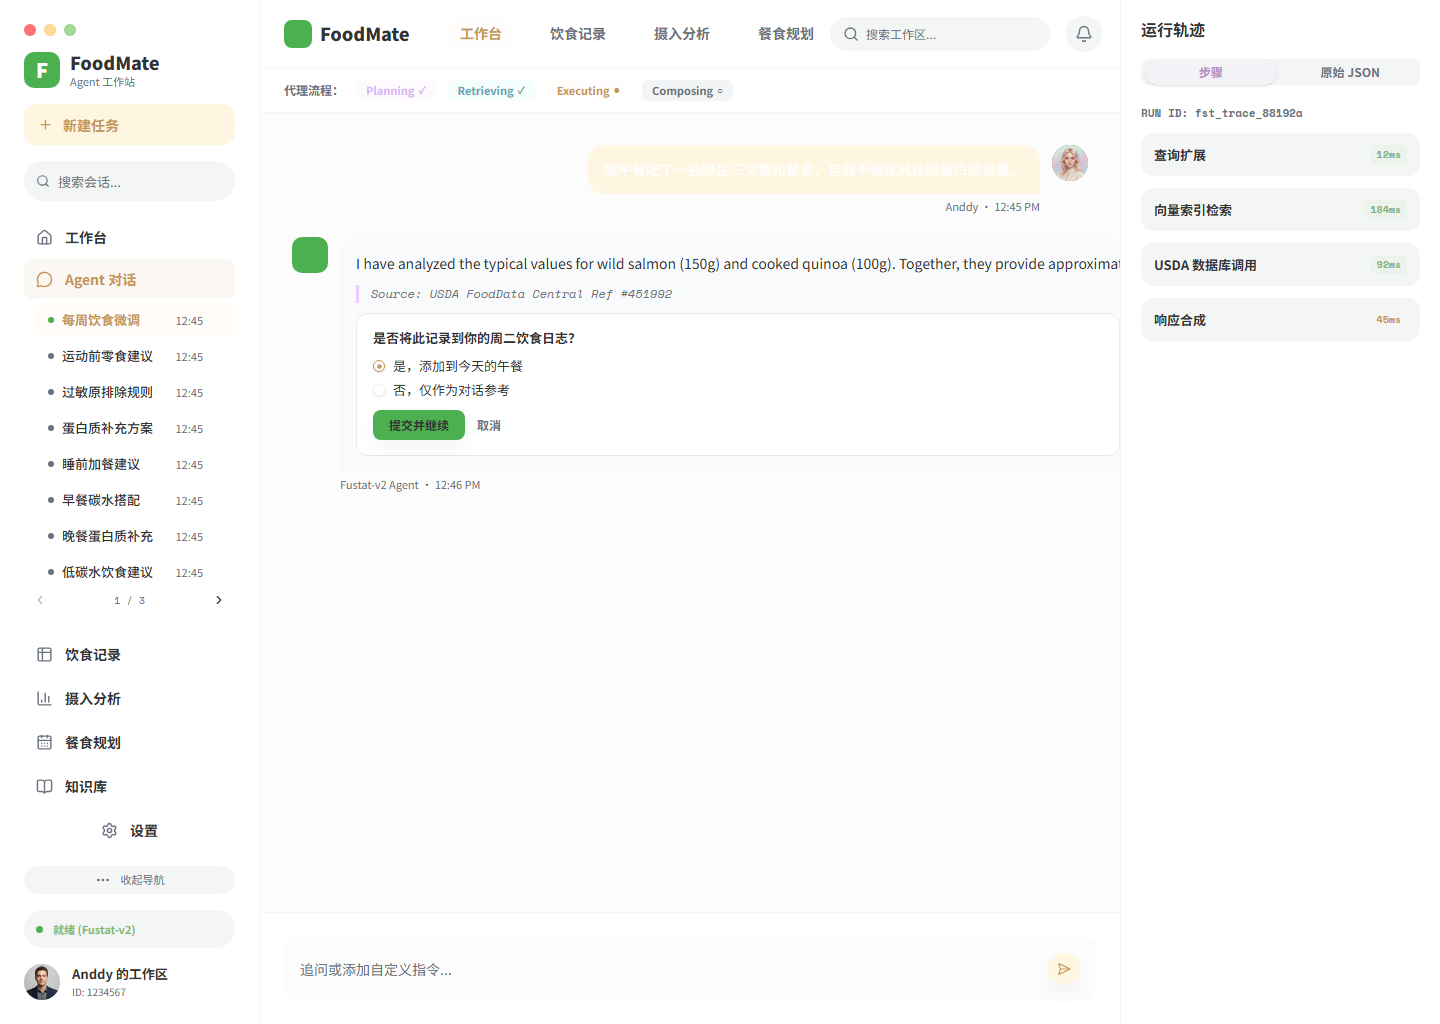
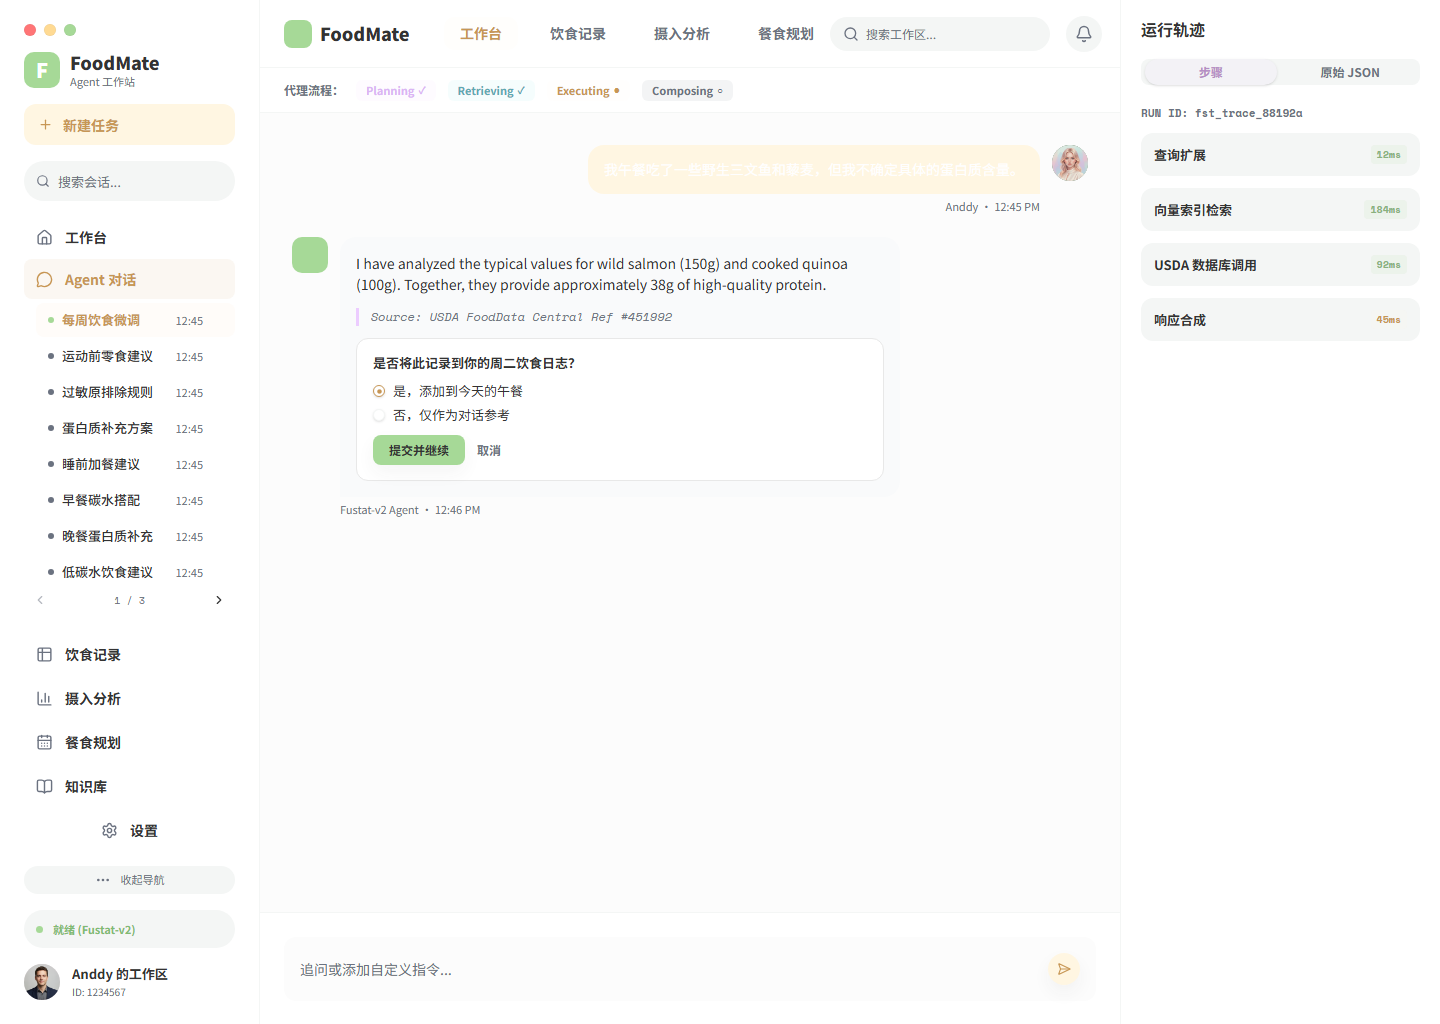
feat(ui): 收口工作台与 Agent Chat 视觉重构

diff --git a/foodmate-ui/src/pages/ChatPage/ChatPage.test.tsx b/foodmate-ui/src/pages/ChatPage/ChatPage.test.tsx
@@ -132,24 +132,19 @@ describe('ChatPage Figma 默认状态', () => {
     expect(screen.getByText('ID: 1234567')).toBeInTheDocument();
   });
 
-  it('uses the full-width assistant surface for the Figma default response', () => {
-    render(
-      <MemoryRouter initialEntries={['/chat?state=figma-v2']}>
-        <Routes>
-          <Route path="/chat/:session_id?" element={<ChatPage />} />
-        </Routes>
-      </MemoryRouter>,
-    );
+  it('uses the Figma 560px assistant content width for the default response', () => {
+    const stylesheet = readFileSync(resolve(process.cwd(), 'src/pages/ChatPage/ChatPage.module.css'), 'utf8');
 
-    const assistantBody = document.querySelector(`[class*="${styles.assistantBody}"]`);
-    expect(assistantBody).toHaveClass(styles.assistantBodyWide);
+    expect(stylesheet).toContain('.figmaDefaultPage .assistantBody {');
+    expect(stylesheet).toContain('width: 560px;');
+    expect(stylesheet).toContain('flex: 0 0 560px;');
   });
 
   it('uses the Figma neutral surface for the assistant message body', () => {
     const stylesheet = readFileSync(resolve(process.cwd(), 'src/pages/ChatPage/ChatPage.module.css'), 'utf8');
 
     expect(stylesheet).toContain('.designChatPage .assistant .messageBubble');
-    expect(stylesheet).toContain('--fm-fixture-assistant-surface: #f9fafb;');
+    expect(stylesheet).toContain('--fm-fixture-assistant-surface: #f4f6f5;');
   });
 
   it('uses the Figma surface for the Composer input row in the fixture', () => {
@@ -161,6 +156,21 @@ describe('ChatPage Figma 默认状态', () => {
 
     expect(pageStylesheet).toContain('--fm-fixture-composer-input-surface: #fcfcfc;');
     expect(composerStylesheet).toContain('background: var(--fm-fixture-composer-input-surface, var(--fm-bg-soft));');
+  });
+
+  it('keeps the Figma default message action guidance under the assistant answer', () => {
+    renderChatState('figma-v2');
+
+    expect(screen.getByRole('region', { name: '消息操作' })).toBeInTheDocument();
+    expect(
+      screen.getByText((content) => content.includes('用户消息：编辑') && content.includes('重试')),
+    ).toBeInTheDocument();
+    expect(
+      screen.getByText((content) => content.includes('Agent 回答：复制') && content.includes('继续提问')),
+    ).toBeInTheDocument();
+    expect(
+      screen.getByText((content) => content.includes('右侧面板：运行') && content.includes('原始 JSON')),
+    ).toBeInTheDocument();
   });
 });
 

diff --git a/foodmate-ui/src/pages/ChatPage/ChatPage.tsx b/foodmate-ui/src/pages/ChatPage/ChatPage.tsx
@@ -2080,15 +2080,15 @@ function MockChatPage() {
       ) : null}
       {agent.card.type === 'confirmation' ? null : null}
       {agent.card.type === 'error' ? <ErrorState message={agent.card.message} /> : null}
-      {!isFigmaFixture ? (
+      {isFigmaFixture ? (
         <section className={styles.messageActions} aria-label="消息操作">
           <h2>消息操作</h2>
-          <p>用户消息：编辑 · 复制 · 重试（保留原消息并新建一次运行）</p>
-          <p>Agent 回答：复制 · 查看引用 · 查看运行详情 · 继续提问</p>
+          <p>{'用户消息：编辑  ·  复制  ·  重试（保留原消息并新建一次运行）'}</p>
+          <p>{'Agent 回答：复制  ·  查看引用  ·  查看运行详情  ·  继续提问'}</p>
           <p className={styles.actionGreen}>
-            工具失败时显示重试；运行中发送按钮切换停止；写入确认/预算追加仍需确认后继续。
+            工具失败时显示重试；运行中发送按钮切换停止；写入确认 / 预算追加仍需确认后继续。
           </p>
-          <p>右侧面板：运行 · 工具 · 引用 · 原始 JSON 默认折叠并隐藏敏感参数。</p>
+          <p>{'右侧面板：运行  ·  工具  ·  引用     原始 JSON 默认折叠并隐藏敏感参数。'}</p>
         </section>
       ) : null}
     </ChatSurface>

diff --git a/foodmate-ui/src/pages/ChatPage/ChatPage.module.css b/foodmate-ui/src/pages/ChatPage/ChatPage.module.css
@@ -632,7 +632,7 @@
 }
 
 .designChatPage {
-  --fm-fixture-assistant-surface: #f9fafb;
+  --fm-fixture-assistant-surface: #f4f6f5;
   --fm-fixture-composer-input-surface: #fcfcfc;
 }
 
@@ -645,27 +645,25 @@
   line-height: 1.5;
 }
 
-/* Figma agent-chat-v2 uses Noto Sans SC for the assistant body; keep the
-   monospace treatment scoped to source and trace text instead. */
+/* Figma agent-chat-v2 的助手正文使用 Noto Sans SC；等宽字体只保留给来源和运行轨迹。 */
 .designChatPage .assistant .messageText {
   font-family: var(--fm-font);
 }
 
-/* Figma node 640:428 lets the default assistant surface reach the trace
-   boundary; keep this geometry isolated from other chat fixtures. */
+/* Figma 节点 640:428 的助手内容区固定为 560px，右侧空白属于画板布局。 */
 .figmaDefaultPage .assistantBody {
-  width: 780px;
-  flex: 0 0 780px;
+  width: 560px;
+  flex: 0 0 560px;
 }
 
 .figmaDefaultPage .assistant .messageBubble {
-  gap: 10px;
-  padding-right: 0;
+  gap: 12px;
+  padding-right: 16px;
 }
 
 .figmaDefaultPage .assistant .messageText {
-  overflow: hidden;
-  white-space: nowrap;
+  overflow: visible;
+  white-space: pre-wrap;
 }
 
 .figmaDefaultPage .assistant .source {
@@ -891,7 +889,7 @@
   color: #57635c;
   font-size: 13px;
   line-height: 18px;
-  white-space: nowrap;
+  white-space: pre;
 }
 
 .messageActions .actionGreen {

diff --git a/foodmate-ui/src/layouts/WorkspaceLayout/WorkspaceLayout.module.css b/foodmate-ui/src/layouts/WorkspaceLayout/WorkspaceLayout.module.css
@@ -14,7 +14,7 @@
   --fm-fixture-top-nav-active-surface: #fffefc;
 }
 
-/* Keep the Figma fixture rail at its 340px canvas boundary without letting the divider consume layout space. */
+/* Figma fixture 右侧轨道保持 340px 画板边界，分隔线不额外占用布局宽度。 */
 .figmaFixture .rightRail {
   border-left: 0;
   box-shadow: inset 1px 0 0 var(--fm-border);
@@ -38,9 +38,8 @@
   height: 12px;
 }
 
-/* Figma node 640:428 uses separate neutral surfaces for active navigation and session rows. */
+/* Figma 节点 640:428 使用独立的中性导航和会话选中表面。 */
 .designChat {
-  --fm-green: #4caf50;
   --fm-fixture-sidebar-active-surface: #fbf7f2;
   --fm-fixture-session-active-surface: #fffcf9;
   --fm-fixture-top-nav-active-surface: #fffefc;
@@ -672,6 +671,11 @@
 }
 
 @media (min-width: 1101px) and (max-width: 1399px) {
+  /* 中等桌面宽度优先保留导航和账户操作，工作区搜索框按 Figma 响应式规则隐藏。 */
+  .withRail .workspaceSearch {
+    display: none;
+  }
+
   .withWideRail .workspaceSearch {
     display: none;
   }

diff --git a/foodmate-ui/src/layouts/WorkspaceLayout/WorkspaceLayout.test.tsx b/foodmate-ui/src/layouts/WorkspaceLayout/WorkspaceLayout.test.tsx
@@ -120,13 +120,9 @@ describe('WorkspaceLayout shell controls', () => {
   });
 
   it('uses the Figma green token for design chat brand and agent marks', () => {
-    const stylesheet = readFileSync(
-      resolve(process.cwd(), 'src/layouts/WorkspaceLayout/WorkspaceLayout.module.css'),
-      'utf8',
-    );
+    const stylesheet = readFileSync(resolve(process.cwd(), 'src/styles/tokens.css'), 'utf8');
 
-    expect(stylesheet).toContain('.designChat {');
-    expect(stylesheet).toContain('--fm-green: #4caf50;');
+    expect(stylesheet).toContain('--fm-green: #a6d997;');
   });
 
   it('allows a page to hide only the topbar mark letter while keeping its top navigation', () => {

diff --git a/docxs/功能实现说明/前端已完成实现清单.md b/docxs/功能实现说明/前端已完成实现清单.md
@@ -4,7 +4,7 @@
 > 本文只记录真实代码、真实测试和实际浏览器检查结果，不把 Figma 目标稿、后端目标接口或未完成的全量迁移写成已完成。
 > “页面代码边界完成”表示该页面的代码、交互和本地验收已完成；不等同于真实后端接口、Figma 实际画板和整个 G 阶段全部完成。
 
-> 当前状态（2026-09-05）：页面代码和本地视觉/交互验收不等于完整生产完成。后端已实现 `food_logs` 明细创建/查询/编辑/删除/恢复、today/7d/30d 分析、60 条营养食材 seed 和 60 条官方 foodPortions 换算规则的 matched/pending 分支、餐食计划完整资源生命周期和 `meal_plan.save_plan` 确认；`food_log_writer` 的 create/update/delete/restore 及 rejected/failed/superseded、revision 冲突和幂等重放已通过真实 PostgreSQL HTTP/RocketMQ 各 11/11 跨进程回归。M2-1 公共知识库、M2-2 deterministic Tool/SQL 和 M2-3 管理核心切片已有业务证据；真实云服务、性能和故障矩阵仍后置。当前前端全量 Vitest 为 39/39 个测试文件、243/243 个用例通过，typecheck 和 build 通过；Auth 页面最新 Figma 资源、DPR 1 验收证据和 Login Motion 契约已生成，认证大点将在集中质量门禁通过后提交本地 Git。不得把本清单的页面完成项改写为生产级完成。
+> 当前状态（2026-09-05）：页面代码和本地视觉/交互验收不等于完整生产完成。后端已实现 `food_logs` 明细创建/查询/编辑/删除/恢复、today/7d/30d 分析、60 条营养食材 seed 和 60 条官方 foodPortions 换算规则的 matched/pending 分支、餐食计划完整资源生命周期和 `meal_plan.save_plan` 确认；`food_log_writer` 的 create/update/delete/restore 及 rejected/failed/superseded、revision 冲突和幂等重放已通过真实 PostgreSQL HTTP/RocketMQ 各 11/11 跨进程回归。M2-1 公共知识库、M2-2 deterministic Tool/SQL 和 M2-3 管理核心切片已有业务证据；真实云服务、性能和故障矩阵仍后置。当前前端全量 Vitest 为 39/39 个测试文件、244/244 个用例通过，typecheck 和 build 通过；Auth 页面已提交 `bc72ae10`，Workspace/Home 与 Agent Chat 的当前视觉收口已完成代码边界，相关 Figma 证据仍保持 `DIFF_REVIEW`。不得把本清单的页面完成项改写为生产级完成。
 
 ## 1. 文档信息
 
@@ -1732,3 +1732,14 @@
 - [x] `figma-105-mapping.json` 已切换五个认证主画板的 Figma 参考路径和浏览器证据，`figma-105-diff-results.json` 已重新生成；全量聚合仍为 `105 DIFF_REVIEW / 0 PASS / 0 UNMAPPED / 0 SIZE_MISMATCH`。
 - [ ] 五个画板仍存在非零像素差异，且本次实时参考图尚未全部完成独立人工视觉复核，因此不能标记 `PASS`；这次只完成证据和 Motion 契约收口，不代表 Auth 或 105 张画板像素级验收完成。
 - [ ] shadcn 全量逐页视觉迁移、iconfont 实体包和授权登记仍未完成；标准命令图标继续使用 Lucide，iconfont 继续为 `BLOCKED`。
+
+## 202. 2026-09-05 Workspace Home 与 Agent Chat 视觉收口
+
+本大点依据实时 Figma 节点 `640:256`（Workspace Home）和 `640:428`（Agent Chat）完成当前工作区前端改动的代码收口；Figma 文件保持只读，未纳入后端或 Admin 并行改动。
+
+- [x] `WorkspaceLayout` 的 Figma fixture 保持 `260px` 侧栏、`24px` 侧栏内边距和中等桌面下的导航优先响应式规则；带右侧轨道的中等桌面宽度隐藏工作区搜索框，避免顶栏操作区发生挤压。
+- [x] Chat fixture 的助手正文宽度收口为 `560px`，助手气泡背景收口为 `#f4f6f5`，正文允许按设计稿自然换行；来源和运行轨迹继续使用等宽字体边界。
+- [x] Figma Chat 消息操作区的文案、间距和“写入确认 / 预算追加”提示已按设计稿收口；真实模式的消息、确认、预算和 SSE 业务逻辑未改写。
+- [x] `WorkspaceLayout.test.tsx` 与 `ChatPage.test.tsx` 已同步覆盖绿色 Token、`560px` 正文宽度、助手背景和消息操作区；标准命令图标继续使用 Lucide，未创建虚构 iconfont glyph。
+- [x] 当前大点的前端改动仅包含 WorkspaceLayout、ChatPage 及对应测试；后端 Mapper、Admin 额外改动和临时 SQL 文件保持未纳入本次提交。
+- [ ] 本大点的自动 diff 和人工视觉复核仍存在字体、头像、图标及局部组合差异，Workspace Home、Agent Chat 和 105 张画板继续保持 `DIFF_REVIEW`；shadcn 全量逐页视觉迁移尚未完成，iconfont 继续为 `BLOCKED`。
